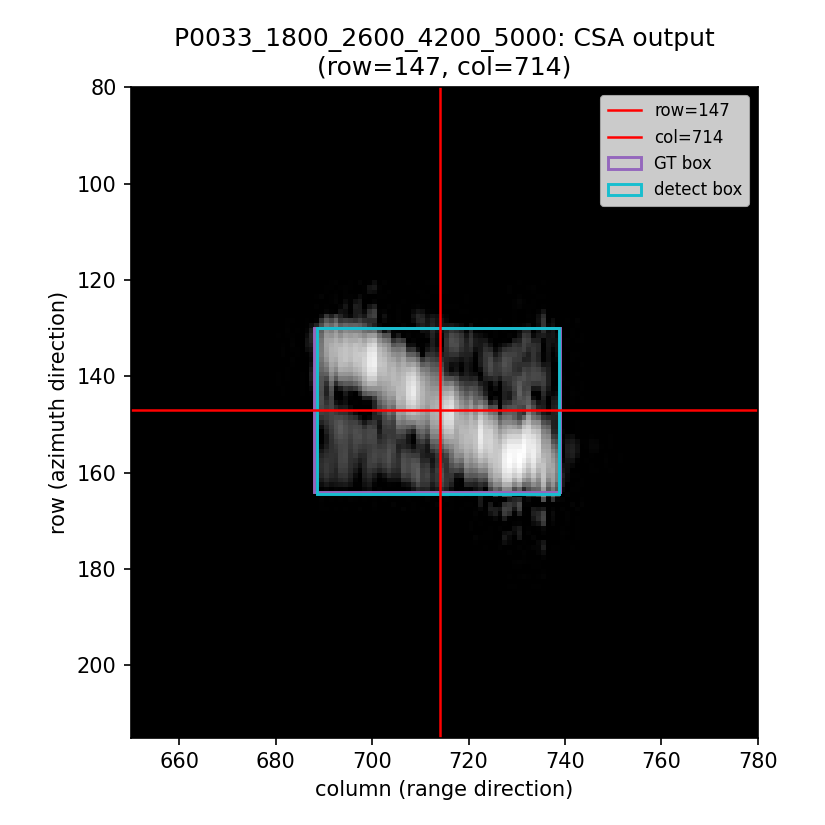
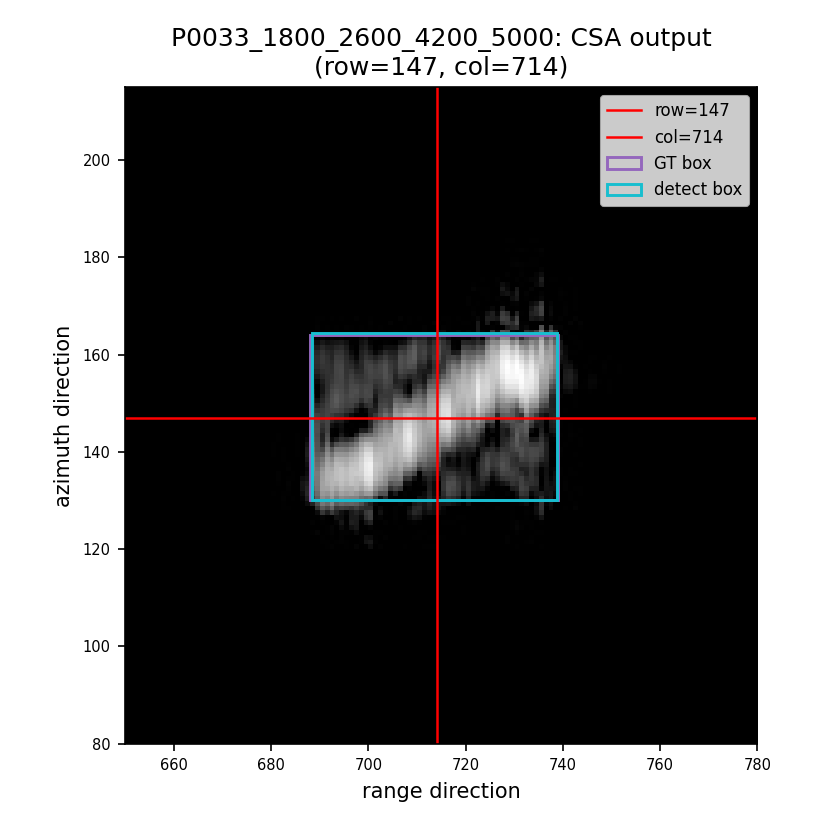
Refine axis definition

Changed region(s): [[0.0606, 0.0303, 0.9394, 0.9697]]

diff --git a/end_to_end_pipeline/crosssection_plots/plot_crosssection_overlay_on_images.py b/end_to_end_pipeline/crosssection_plots/plot_crosssection_overlay_on_images.py
@@ -81,15 +81,16 @@ def main():
     for suffix, title, img in panels:
         fig, ax = plt.subplots(figsize=(5.5, 5.5))
         crop = img[r0:r1, c0:c1]
-        ax.imshow(crop, cmap="gray", vmin=0, vmax=255, extent=[c0, c1, r1, r0])
+        ax.imshow(crop, cmap="gray", vmin=0, vmax=255, extent=[c0, c1, r0, r1], origin="lower")
         ax.axhline(args.row, color="red", linestyle="-", linewidth=1.2, label=f"row={args.row}")
         ax.axvline(args.col, color="red", linestyle="-", linewidth=1.2, label=f"col={args.col}")
         draw_boxes(ax, gt_boxes, "tab:purple", "GT box")
         draw_boxes(ax, pred_boxes, "tab:cyan", "detect box")
         ax.legend(fontsize=8, loc="upper right")
         ax.set_title(f"{args.stem}: {title}\n(row={args.row}, col={args.col})")
-        ax.set_xlabel("column (range direction)")
-        ax.set_ylabel("row (azimuth direction)")
+        ax.set_xlabel("range direction")
+        ax.set_ylabel("azimuth direction")
+        ax.tick_params(labelsize=7)
         plt.tight_layout()
         panel_path = f"{out_root}_{suffix}{out_ext}"
         plt.savefig(panel_path, dpi=150)
